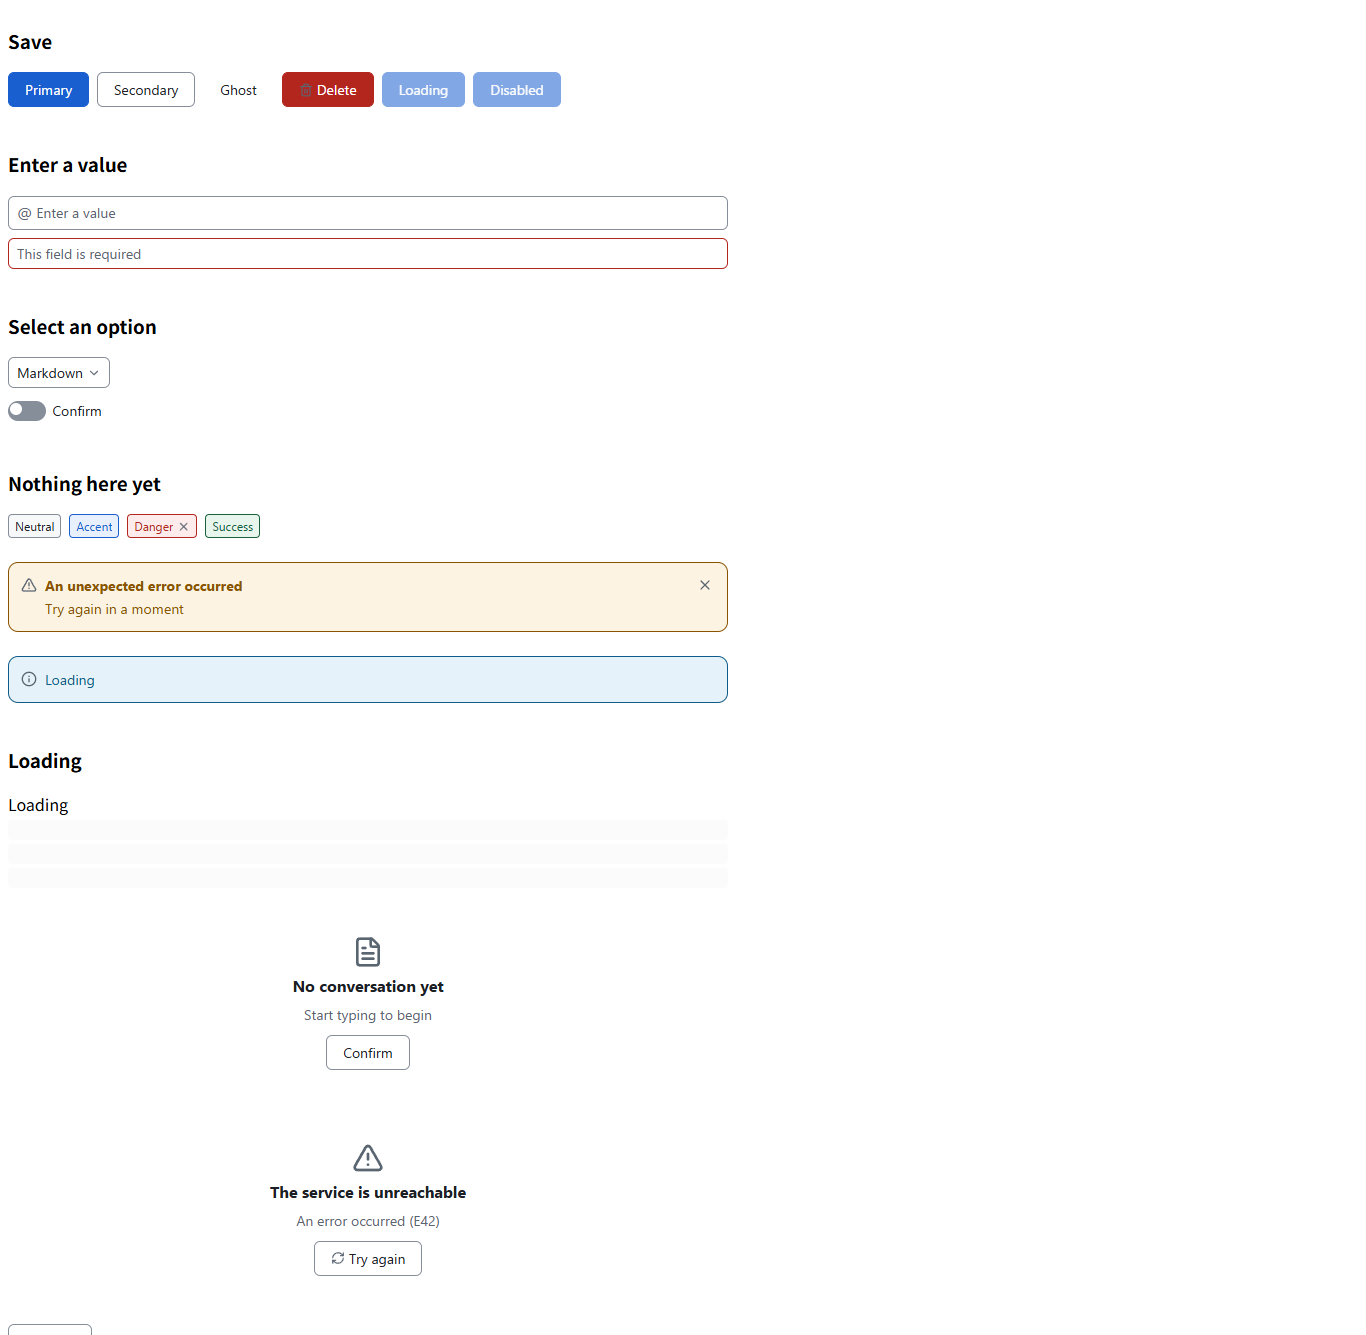
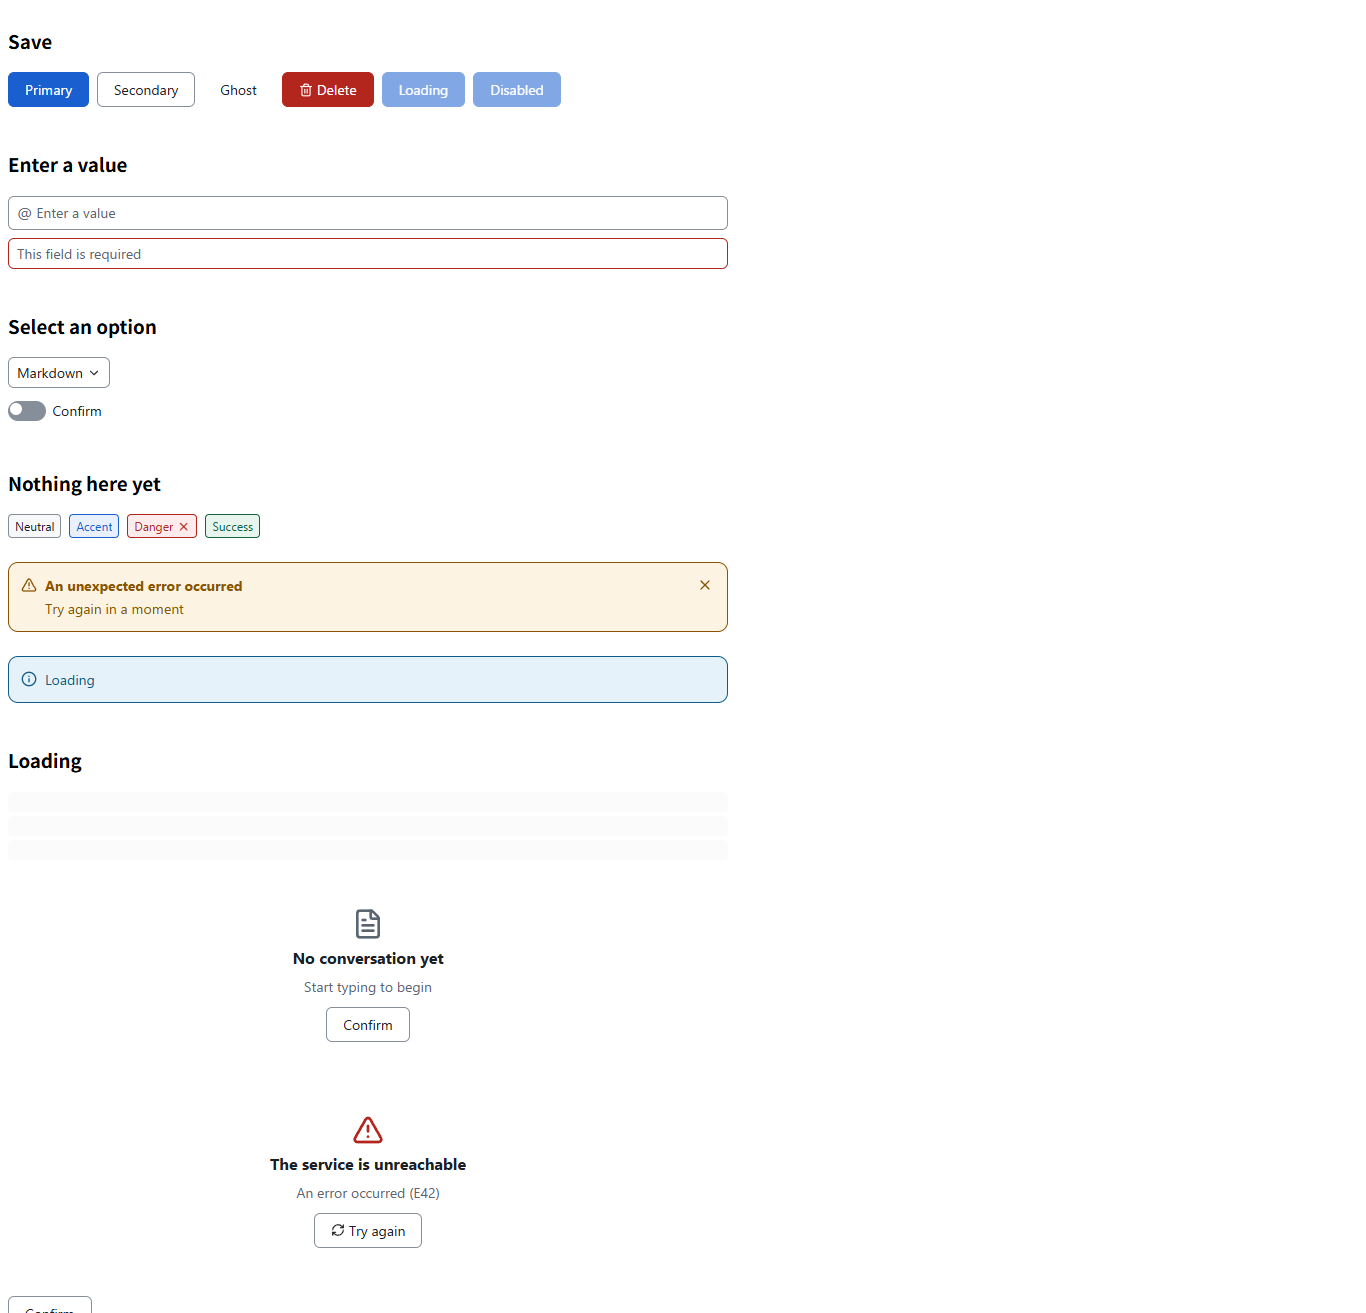
fix(ui): make a theme actually paint, and keep controls off the page colour
Two more defects the dark screenshots showed, both invisible to every gate.

The token layer defined variables and nothing consumed them. So a dark theme
switched the *components* to dark and left the page white, because body has a
user-agent background and none of our rules touched it. Tokens are values; a
theme needs something that paints them. A small base rule now sets the page
surface, the text colour and the font from the tokens.

That immediately exposed the second: secondary buttons, inputs and selects were
filled with surface-1, which is exactly what the page now is, so in the dark
themes every secondary control lost its edge. Measured after the fix:
page #16181c against control #1e2127 in dark/normal, #0b0d10 against #14171b
in dark/high. Distinct in all three themes now.

Neither was catchable by the token gate, which verifies values, or by the
component tests, which assert behaviour. Both needed somebody to look at the
page in a dark theme -- which is what  is for, and why the acceptance page
had to grow a theme parameter before it could be judged at all.

verify 8/8, 50.9s.

diff --git a/packages/ui/src/tokens/theme.ts b/packages/ui/src/tokens/theme.ts
@@ -109,6 +109,31 @@ export function themeRule(theme: Theme): string {
 }
 
 /**
+ * Base rules that make a theme actually visible.
+ *
+ * Tokens on their own only define variables. Nothing paints them, so a document
+ * with `data-theme="dark"` and no base rule keeps a white page with dark
+ * components -- which is what a screenshot of the four-combination page showed:
+ * the *components* switched and the page did not, because `body` has a default
+ * background from the user agent and none of our rules touched it.
+ *
+ * This is the minimum needed for a combination to be usable: the page surface, the
+ * text colour, and the font. Everything else stays with the components, so a host
+ * that wants its own page chrome can override these two rules and lose nothing.
+ */
+const BASE_CSS = `
+body {
+  margin: 0;
+  background-color: var(--ui-color-surface-1);
+  color: var(--ui-color-neutral-1);
+  font-family: var(--ui-font-family-body);
+  /* Unitless so line height follows each element's own font size, which is what
+     makes the same control the same height in Chinese and in English. */
+  line-height: var(--ui-font-lineHeight-2);
+}
+`;
+
+/**
  * Render all four themes plus the reduced-motion override as one stylesheet.
  *
  * Sorted by theme key so the output is byte-stable: a snapshot test can then
@@ -129,7 +154,11 @@ export function themeCss(): string {
       return themeRule(theme);
     });
 
-  return [...rules, REDUCED_MOTION_CSS].join("\n\n");
+  // Base rules first: they read the variables, so they must come after the
+  // declarations in cascade order at equal specificity -- and a `body` rule is
+  // less specific than anything scoped to `:root`, so order does not matter for
+  // correctness, only for readability.
+  return [BASE_CSS, ...rules, REDUCED_MOTION_CSS].join("\n\n");
 }
 
 /** Marks the style element this module owns, so injection stays idempotent. */

diff --git a/packages/ui/src/components/styles.ts b/packages/ui/src/components/styles.ts
@@ -86,7 +86,11 @@ const BUTTON_CSS = `
 }
 
 .ui-button[data-variant="secondary"] {
-  background-color: var(--ui-color-surface-1);
+  /* surface-2, not surface-1: the base rule paints the page with surface-1, and a
+     control filled with the page colour has no visible edge in the dark themes.
+     Observed on a screenshot of the dark combination, where the Secondary button
+     and the secondary action buttons vanished into the background. */
+  background-color: var(--ui-color-surface-2);
   color: var(--ui-color-neutral-1);
   border-color: var(--ui-color-neutral-3);
 }
@@ -133,7 +137,9 @@ const INPUT_CSS = `
   align-items: center;
   gap: var(--ui-space-2);
   ${CONTROL_BASE}
-  background-color: var(--ui-color-surface-1);
+  /* surface-2 for the same reason as the secondary button: the page is already
+     surface-1, so a field filled with it has no perceptible boundary. */
+  background-color: var(--ui-color-surface-2);
   border: 1px solid var(--ui-color-neutral-3);
   padding: var(--ui-space-2) var(--ui-space-4);
   transition: border-color var(--ui-motion-duration-2) var(--ui-motion-easing-1);
@@ -382,7 +388,7 @@ const SELECT_CSS = `
   align-items: center;
   gap: var(--ui-space-2);
   ${CONTROL_BASE}
-  background-color: var(--ui-color-surface-1);
+  background-color: var(--ui-color-surface-2);
   border: 1px solid var(--ui-color-neutral-3);
   padding: var(--ui-space-2) var(--ui-space-4);
   cursor: pointer;
@@ -422,7 +428,7 @@ const SELECT_CSS = `
 }
 
 .ui-select__popup {
-  background-color: var(--ui-color-surface-1);
+  background-color: var(--ui-color-surface-2);
   border: 1px solid var(--ui-color-neutral-3);
   border-radius: var(--ui-radius-2);
   box-shadow: 0 4px 16px rgb(0 0 0 / 12%);

diff --git a/packages/ui/src/tokens/tokens.test.ts b/packages/ui/src/tokens/tokens.test.ts
@@ -106,6 +106,18 @@ describe("stylesheet generation", () => {
     }
   });
 
+  it("paints the page surface from the theme, not only the components", () => {
+    // Tokens are variables; nothing paints them. Without a base rule a dark
+    // theme produced a white page with dark components, which is what a
+    // screenshot of the four-combination page showed. The class of bug no token
+    // assertion can see: every value was correct and nothing consumed it.
+    const css = themeCss();
+
+    expect(css).toMatch(/body\s*\{/);
+    expect(css).toContain("background-color: var(--ui-color-surface-1)");
+    expect(css).toContain("color: var(--ui-color-neutral-1)");
+  });
+
   it("zeroes the motion durations under prefers-reduced-motion", () => {
     expect(themeCss()).toContain("@media (prefers-reduced-motion: reduce)");
   });
